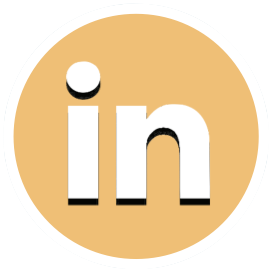
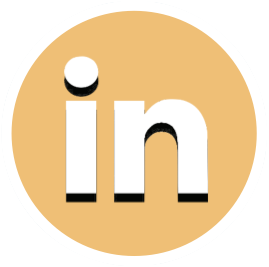
Portfolio Improvement and transition support
Opera support for hover transitions.
Universal font support for Index-lander and portfolio
Updated Icons for Mail, Linked In, and added Portfolio
Linked Portfolio icon to page

diff --git a/portfolio_stylesheet.css b/portfolio_stylesheet.css
@@ -1,37 +1,61 @@
 @font-face {
-    font-family: 'Roboto Normal';
-    src: url('roboto/Roboto-Regular.ttf');
+    font-family: 'Roboto Regular';
+    src: url('fonts/Roboto_Regular/Roboto-Regular-webfont.eot');
+    src: url('fonts/Roboto_Regular/Roboto-Regular-webfont.eot?#iefix') format('embedded-opentype'),
+         url('fonts/Roboto_Regular/Roboto-Regular-webfont.woff') format('woff'),
+         url('fonts/Roboto_Regular/Roboto-Regular-webfont.ttf') format('truetype'),
+         url('fonts/Roboto_Regular/Roboto-Regular-webfont.svg#robotoregular') format('svg');
+    font-weight: normal;
+    font-style: normal;
 }
 
 @font-face {
-    font-family: 'Roboto Bold';
-    src: url('roboto/Roboto-Bold.ttf');
+    font-family: 'Roboto Thin';
+    src: url('fonts/Roboto_Thin/Roboto-Thin-webfont.eot');
+    src: url('fonts/Roboto_Thin/Roboto-Thin-webfont.eot?#iefix') format('embedded-opentype'),
+         url('fonts/Roboto_Thin/Roboto-Thin-webfont.woff') format('woff'),
+         url('fonts/Roboto_Thin/Roboto-Thin-webfont.ttf') format('truetype'),
+         url('fonts/Roboto_Thin/Roboto-Thin-webfont.svg#robotothin') format('svg');
+    font-weight: normal;
+    font-style: normal;
 }
 
-@font-face {
-    font-family: 'Roboto Italic';
-    src: url('roboto/Roboto-Italic.ttf');
-}
 
 body {
-	width: 500px;
+	font-family: 'Roboto Regular';
+	font-size: 14px;
+	width: 70%;
 	margin: 0 auto;
-	background: #F2EFE6;
+	background: #FFFFFF;
+}
+
+h1 {
+	font-family: 'Roboto Thin', sans-serif;
+	font-size: 3em;
+	text-align: center;
+}
+
+h2 {
+	font-family: 'Roboto Thin', sans-serif;
+	font-size: 2em;
+	text-align: center;
 }
 
 table {
 	margin: 0 auto;
 	border-spacing: 10px;
-	font-family: 'Roboto Normal', sans-serif;
+	font-family: 'Roboto Regular', sans-serif;
 }
 
 td {
 	height: 100px;
-	width: 46%;
-	box-shadow: 0 8px 6px -6px #888888;
+	width: 50%;
 	background: #8F6CD7;
-	-webkit-transition: background 1s;
+	-webkit-transition: background 0.7s;
+	-moz-transition: background 0.7s;
+	-o-transition: background 0.7s;
 	color: black;
+	border: 5px black solid;
 	margin: 100px;
 	padding: 10px 10px 10px 10px;
 	vertical-align: top;
@@ -39,5 +63,11 @@ td {
 
 td:hover {
 	background: #6F81D6;
-    -webkit-transition: background 1s;
+    -webkit-transition: background 0.7s;
+    -moz-transition: background 0.7s;
+    -o-transition: background 0.7s;
+}
+
+#wide {
+	width: 100%;
 }

diff --git a/lander_stylesheet.css b/lander_stylesheet.css
@@ -1,7 +1,14 @@
 @font-face {
     font-family: 'Roboto Thin';
-    src: url('roboto/Roboto-Thin.ttf');
+    src: url('fonts/Roboto_Thin/Roboto-Thin-webfont.eot');
+    src: url('fonts/Roboto_Thin/Roboto-Thin-webfont.eot?#iefix') format('embedded-opentype'),
+         url('fonts/Roboto_Thin/Roboto-Thin-webfont.woff') format('woff'),
+         url('fonts/Roboto_Thin/Roboto-Thin-webfont.ttf') format('truetype'),
+         url('fonts/Roboto_Thin/Roboto-Thin-webfont.svg#robotothin') format('svg');
+    font-weight: normal;
+    font-style: normal;
 }
+
 
 html {
     background: url(DowntownSF.jpg) no-repeat center center fixed;
@@ -19,10 +26,20 @@ html {
     width: 100%;
     height: 100%;
     z-index: 1;
-    opacity: .6;
+    opacity: .5;
     background-color: rgba(158, 199, 211, 100);
+    /*background-color: white;*/
     -webkit-transition: background-color 2s;
     -moz-transition: background-color 2s;
+    -o-transition: background-color 2s;
+}
+
+#showemail {
+    position: relative;
+    top: -30px;
+    color: white;
+    opacity: 1;
+    display: none;
 }
 
 body {
@@ -64,32 +81,38 @@ nav ul li{
     background: #68B4DD;
     -webkit-transition: background-color 0.7s;
     -moz-transition: background-color 0.7s;
+    -o-transition: background-color 0.7s;
 }
 #resume:hover ~ #bg{
     background: #9EE162;
     -webkit-transition: background-color 0.7s;
     -moz-transition: background-color 0.7s;
+    -o-transition: background-color 0.7s;
 }
 #email:hover ~ #bg{
     background: #FFE06B;
     -webkit-transition: background-color 0.7s;
     -moz-transition: background-color 0.7s;
+    -o-transition: background-color 0.7s;
 }
 #LI:hover ~ #bg{
     background: #FEC179;
     -webkit-transition: background-color 0.7s;
     -moz-transition: background-color 0.7s;
+    -o-transition: background-color 0.7s;
 }
 #GH:hover ~ #bg{
     background: #FC6263;
     -webkit-transition: background-color 0.7s;
     -moz-transition: background-color 0.7s;
+    -o-transition: background-color 0.7s;
 }
 
-
-
-
-
-
+#portfolio:hover ~ #bg{
+    background: #D363F6;
+    -webkit-transition: background-color 0.7s;
+    -moz-transition: background-color 0.7s;
+    -o-transition: background-color 0.7s;
+}
 
 

diff --git a/index.html b/index.html
@@ -16,6 +16,7 @@
 	<nav>
 		<ul>
 			<li id="me"><img src="icons_color/me_color.png" width="50" height="50" alt="me social icon"></li>
+			<li id="portfolio"><a href="portfolio.html"><img src="icons_color/portfolio_color.png" width="50" height="50" alt="portfolio social icon"></a></li>
 			<li id="resume"><img src="icons_color/resume_color.png" width="50" height="50" alt="resume social icon"></li>
 			<li id="email"><img src="icons_color/mail_color.png" width="50" height="50" alt="email social icon"></li>
 			<li id="LI"><img src="icons_color/in_color.png" width="50" height="50" alt="Linked In social icon"></li>

diff --git a/portfolio.html b/portfolio.html
@@ -5,6 +5,8 @@
 	<link rel="stylesheet" href="portfolio_stylesheet.css">
 </head>
 <body>
+	<h1>Coding + Design</h1>
+	<h2>Two Disciplines in Harmony</h2>
 	<table>
 		<tr>
 			<td>Hello, how are you doing this fine Friday</td>
@@ -13,6 +15,9 @@
 		<tr>
 			<td>This will be my portfolio</td>
 			<td>I wonder what will it contain in one year's time</td>
+		</tr>
+		<tr>
+			<td>SO Alone</td>
 		</tr>
 	</table>
 </body>
